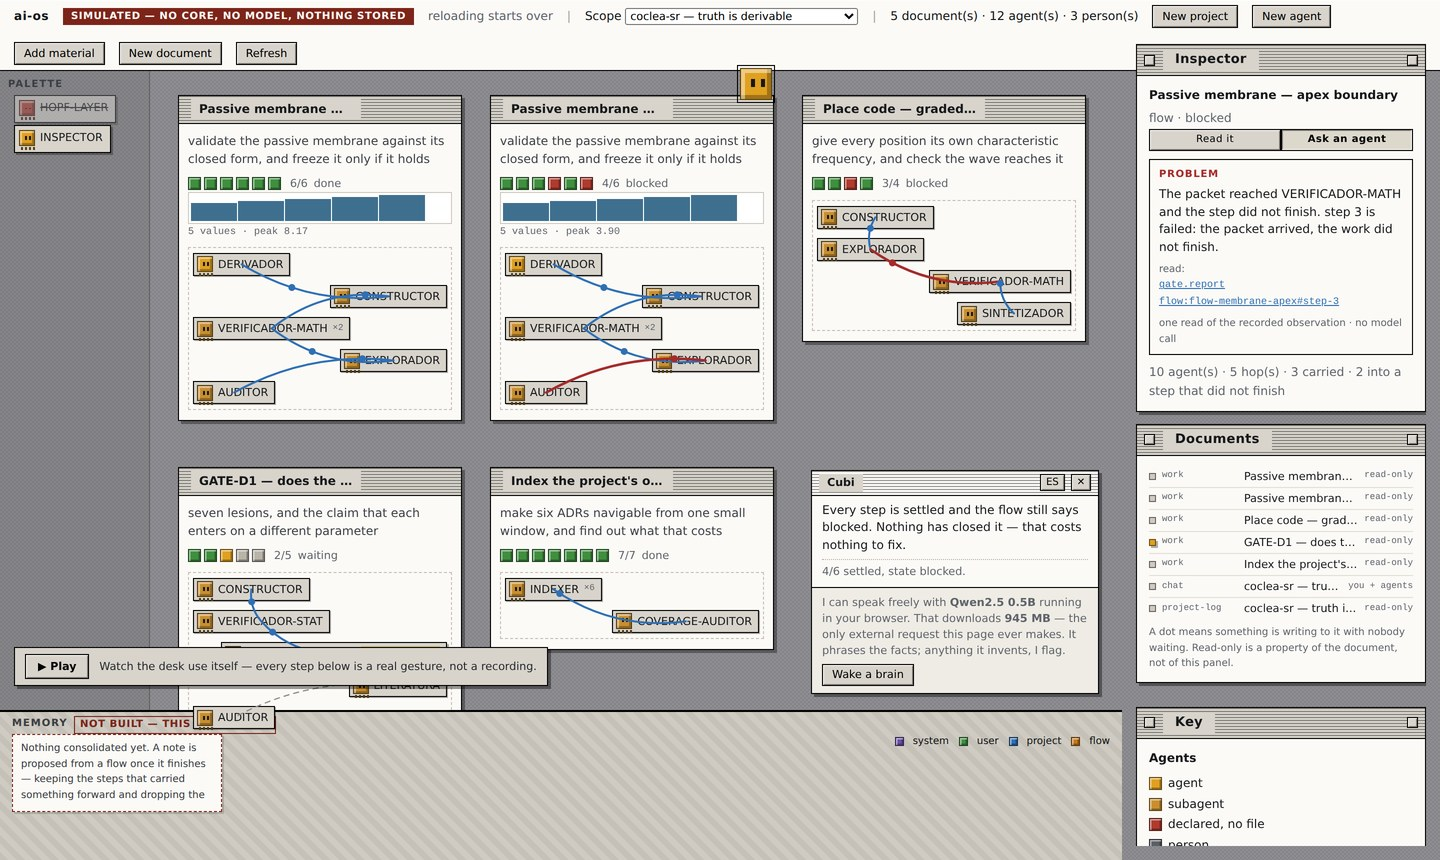
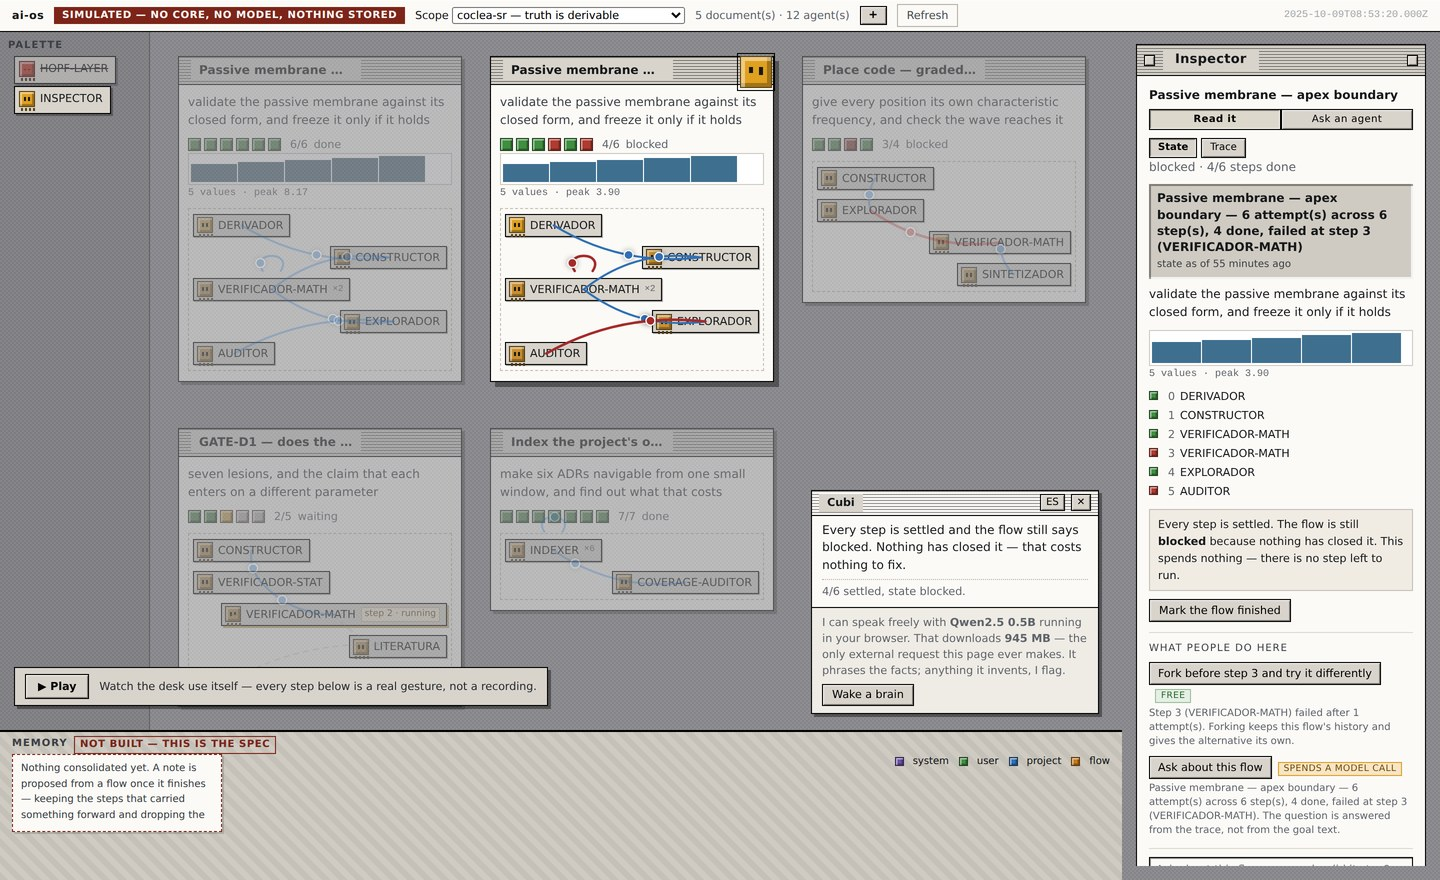
Take things away: one bar, one panel, and the packet is the only thing that moves
Asked how Jobs and Ive would improve this surface, and the honest answer is not
that it needs anything added. It had seven persistent chrome regions competing
with the work — a nine-control menubar, a Play bar, a mascot window, a memory
drawer, a Documents list, a Key, and a Selected panel — and the desk itself,
which is the entire point, held less than half the screen.

Four subtractions.

**The bar is one line.** New project, New agent, Add material and New document
sat at equal weight above the thing they act on, and none of them is what a
visitor came to do. They are behind one `+` now, still one click away and no
longer shouting. `harness` went with them.

**The Key is deleted.** A legend is a manual, and shipping a manual beside an
interface is the interface admitting it is not legible. Its content became what
the Inspector shows when nothing is selected: you read the vocabulary once, in
the place the answers will appear, and the first thing you click replaces it.
The panel is now permanent — it used to vanish, leaving a hole in the rail and
teaching nothing.

The key also learned the vocabulary it was missing. The five wire marks come
first, drawn with the same CSS as the wires, and that ordering is the argument:
what a box is coloured is ordinary, what a *line between two boxes* means is
what this surface exists to say — and the distinction it most needs a reader to
hold is that `unknown` and `open` are not weaker verdicts, they are the refusal
to give one.
[…]

diff --git a/ai-ui/src/desk.ts b/ai-ui/src/desk.ts
@@ -226,6 +226,47 @@ body{overflow:hidden}
 /* Walking between places: whole pixels, never a glide. */
 .acube.moving{transition:transform .45s steps(12)}
 
+/* ---- the chrome, quieted -------------------------------------------------
+   Overrides on top of the shared bar, not edits to it: vocabulary.ts styles
+   every surface in this repository and the desk does not get to decide how the
+   explorer looks.
+
+   The bar carried nine controls at equal weight above the thing they act on,
+   and none of them is what a visitor came to do. What is left is what changes
+   what you are looking at -- the scope -- and everything that *makes* something
+   is behind one plus sign. */
+.menubar{padding:4px 12px;gap:10px;font-size:11px}
+.menubar .sim{font-size:10px}
+.menubar #counts{color:var(--dim)}
+.menubar .right{font-size:10px;opacity:.55}
+.menubar button.quiet{border-color:#b8b3a8;box-shadow:none;background:transparent;color:#4a4e53}
+.menubar button.quiet:hover{background:var(--face)}
+.make{position:relative;display:inline-flex}
+.make>button{font-weight:700;padding:1px 8px;line-height:1.35}
+.makemenu{position:absolute;top:calc(100% + 5px);left:0;z-index:500;display:flex;flex-direction:column;
+  min-width:150px;background:var(--face);border:1px solid #000;box-shadow:3px 3px 0 rgba(0,0,0,.4);padding:3px}
+.makemenu[hidden]{display:none}
+.makemenu button{border:0;box-shadow:none;background:transparent;text-align:left;padding:4px 8px}
+.makemenu button:hover{background:#2f6fb5;color:#fff}
+
+/* ---- focus --------------------------------------------------------------
+   Selecting a flow should make it the thing you are looking at. Everything else
+   steps back rather than disappearing: a desk where the unselected work vanished
+   would be a desk that had answered a question nobody asked. */
+.deskbg.focused .docnode{opacity:.42;filter:saturate(.55)}
+.deskbg.focused .docnode.sel{opacity:1;filter:none;box-shadow:5px 5px 0 rgba(0,0,0,.4)}
+.deskbg.focused .wires g{opacity:.28}
+.deskbg.focused .wires g.inflow{opacity:1}
+@media (prefers-reduced-motion: no-preference){
+  .docnode{transition:opacity .18s linear,filter .18s linear}
+}
+
+/* The wire swatches in the key, drawn with the same rules as the wires. */
+.key .wkey{flex:1 1 100%}
+.key li.wk{align-items:center;gap:7px;padding:2px 0;line-height:1.35}
+.key li.wk svg{flex:0 0 auto}
+.key li.wk b{font-weight:700}
+
 /* ---- the wires -----------------------------------------------------------
    The flows of information, drawn.
 
@@ -252,7 +293,11 @@ body{overflow:hidden}
 .wires g.sel path.w{stroke-width:4}
 .wires g.sel path.w.unknown{stroke-width:2.5}
 /* The packet. A real thing on a real wire -- clicking it opens what moved. */
-.wires circle.pkt{r:3.5;pointer-events:none}
+/* The packet is the hero: the only thing on this surface that moves, and the
+   brightest mark on it. Everything else holds still so that motion means one
+   thing -- information travelling. */
+.wires circle.pkt{r:4.5;pointer-events:none;stroke:#fff;stroke-width:1.25;
+  filter:drop-shadow(0 0 3px rgba(0,0,0,.35))}
 .wires circle.pkt.carried{fill:#2f6fb5}
 .wires circle.pkt.ignored{fill:#b5651d}
 .wires circle.pkt.blocked{fill:#a52a2a}
@@ -750,6 +795,7 @@ const DESK_JS = "(() => {\n" + CREATURES_JS + BUS_JS + INSPECTOR_JS + String.raw
       }
 
       const g = document.createElementNS(NS, 'g');
+      g.dataset.flow = w.flowId;
       if (selected && selected.kind === 'wire' && selected.id === w.id) g.setAttribute('class', 'sel');
 
       const path = document.createElementNS(NS, 'path');
@@ -770,7 +816,7 @@ const DESK_JS = "(() => {\n" + CREATURES_JS + BUS_JS + INSPECTOR_JS + String.raw
       if (w.packet && !reduced) {
         const c = document.createElementNS(NS, 'circle');
         c.setAttribute('class', 'pkt ' + w.state);
-        c.setAttribute('r', '3.5');
+        c.setAttribute('r', '4.5');
         const m = document.createElementNS(NS, 'animateMotion');
         m.setAttribute('dur', (2.4 + (w.fromIndex % 3) * 0.35) + 's');
         m.setAttribute('repeatCount', 'indefinite');
@@ -793,6 +839,11 @@ const DESK_JS = "(() => {\n" + CREATURES_JS + BUS_JS + INSPECTOR_JS + String.raw
       frag.appendChild(g);
     }
     svg.replaceChildren(frag);
+    // The groups were just rebuilt, so whatever was in focus has to be marked
+    // again. Without this a poll silently un-focuses the flow somebody is
+    // reading -- the same class of bug as the panel that lost its answer every
+    // five seconds.
+    if (typeof focus === 'function') focus();
   }
 
   // ---- selection panel ----------------------------------------------------
@@ -805,9 +856,30 @@ const DESK_JS = "(() => {\n" + CREATURES_JS + BUS_JS + INSPECTOR_JS + String.raw
    * to the other. Whoever else wants to know now hears it from the surface that
    * decided it.
    */
+  /**
+   * Bring the selection forward and step everything else back.
+   *
+   * Not hiding: a desk where unselected work vanished would have answered a
+   * question nobody asked. The unselected documents dim and desaturate, their
+   * wires go quiet, and the one you picked keeps its full contrast -- which is
+   * the only way a six-agent chain crossing a surface with four other chains on
+   * it is followable at all.
+   */
+  const focus = () => {
+    const deck = document.querySelector('.deskbg');
+    const flowId = selected && (selected.kind === 'doc' ? selected.id
+      : selected.kind === 'wire' ? (wireById(selected.id) || {}).flowId : null);
+    deck.classList.toggle('focused', !!flowId);
+    for (const el of surface.querySelectorAll('.docnode'))
+      el.classList.toggle('sel', el.dataset.id === flowId);
+    for (const g of document.querySelectorAll('.wires g'))
+      g.classList.toggle('inflow', g.dataset.flow === flowId);
+  };
+
   const select = (kind, id) => {
     selected = { kind, id };
     renderPanel();
+    focus();
     window.dispatchEvent(new CustomEvent('desk:select', { detail: { kind: kind, id: id } }));
   };
 
@@ -1079,8 +1151,21 @@ const DESK_JS = "(() => {\n" + CREATURES_JS + BUS_JS + INSPECTOR_JS + String.raw
 
   const renderPanel = () => {
     const p = document.getElementById('panel');
-    if (!selected) { p.style.display = 'none'; return; }
-    p.style.display = 'block';
+    /**
+     * Nothing selected is not nothing to say.
+     *
+     * The panel used to disappear, which left a gap in the rail and taught a
+     * visitor nothing. It now holds the key — the same one that used to be a
+     * separate permanent window — so the vocabulary is read once, in the place
+     * the answers will appear, and is replaced by the first thing clicked.
+     */
+    if (!selected) {
+      p.querySelector('h2').textContent = 'Inspector';
+      p.querySelector('.win-body').innerHTML = (S.key || '') +
+        '<div class="note">Click any box, any line, or the dot travelling one. ' +
+        'Whatever you pick, this panel becomes about it.</div>';
+      return;
+    }
     p.classList.add('insp');
     /**
      * A wire, which is a thing you can select now.
@@ -1092,7 +1177,7 @@ const DESK_JS = "(() => {\n" + CREATURES_JS + BUS_JS + INSPECTOR_JS + String.raw
      */
     if (selected.kind === 'wire') {
       const w = wireById(selected.id);
-      if (!w) { selected = null; p.style.display = 'none'; return; }
+      if (!w) { selected = null; renderPanel(); return; }
       const i = inspectWire(w);
       p.querySelector('h2').textContent = 'Inspector';
       p.querySelector('.win-body').innerHTML =
@@ -1118,7 +1203,7 @@ const DESK_JS = "(() => {\n" + CREATURES_JS + BUS_JS + INSPECTOR_JS + String.raw
     }
     if (selected.kind === 'doc') {
       const doc = S.docs.find((d) => d.id === selected.id);
-      if (!doc) { selected = null; p.style.display = 'none'; return; }
+      if (!doc) { selected = null; renderPanel(); return; }
       const next = doc.steps.find((s) => s.state === 'pending' || s.state === 'running');
       if (tab === 'trace' && inspectMode === 'read') {
         p.querySelector('h2').textContent = 'Inspector';
@@ -1227,7 +1312,7 @@ const DESK_JS = "(() => {\n" + CREATURES_JS + BUS_JS + INSPECTOR_JS + String.raw
       }
     } else {
       const a = S.agents.find((x) => x.name === selected.id);
-      if (!a) { selected = null; p.style.display = 'none'; return; }
+      if (!a) { selected = null; renderPanel(); return; }
       // What this one is doing, and where -- read off the same steps the
       // creatures are drawn from. Before this, clicking an agent told you what
       // it was *for*, which is the description somebody wrote, and said nothing
@@ -1862,6 +1947,30 @@ const DESK_JS = "(() => {\n" + CREATURES_JS + BUS_JS + INSPECTOR_JS + String.raw
 
   function closeNew() { newForm.style.display = 'none'; newTitle.value = ''; newGoal.value = ''; }
 
+  /**
+   * The one control that makes things.
+   *
+   * Five buttons at equal weight on the bar above the desk, none of which is
+   * what a visitor came to do. Behind a plus they are still one click away and
+   * they have stopped competing with the work. Closes on the next click
+   * anywhere, on Escape, and on choosing something -- a menu that stays open
+   * after you use it is a menu you have to dismiss.
+   */
+  (() => {
+    const open = document.getElementById('mkopen');
+    const menu = document.getElementById('makemenu');
+    if (!open || !menu) return;
+    const shut = () => { menu.hidden = true; open.setAttribute('aria-expanded', 'false'); };
+    open.addEventListener('click', (ev) => {
+      ev.stopPropagation();
+      menu.hidden = !menu.hidden;
+      open.setAttribute('aria-expanded', menu.hidden ? 'false' : 'true');
+    });
+    menu.addEventListener('click', () => setTimeout(shut, 0));
+    window.addEventListener('click', shut);
+    window.addEventListener('keydown', (ev) => { if (ev.key === 'Escape') shut(); });
+  })();
+
   document.getElementById('newdoc').addEventListener('click', function () {
     var open = newForm.style.display !== 'none';
     if (open) { closeNew(); return; }
@@ -1988,10 +2097,30 @@ const DESK_JS = "(() => {\n" + CREATURES_JS + BUS_JS + INSPECTOR_JS + String.raw
 })();
 `;
 
+/**
+ * The vocabulary, in the panel that will answer with it.
+ *
+ * The five wire marks come first, and that ordering is the argument. What a box
+ * is coloured is ordinary; **what a line between two boxes means is the thing
+ * this surface exists to say**, and the distinction it most needs a reader to
+ * hold is that `unknown` and `open` are not weaker versions of a verdict. They
+ * are the refusal to give one, and they are marked so they cannot be mistaken
+ * for it at a glance, in a screenshot, or by somebody who does not see colour.
+ */
 function legend(): string {
   const sw = (color: string, label: string) =>
     `<li><span class="cube" style="--c:${color}"></span><span>${esc(label)}</span></li>`;
+  const wire = (cls: string, label: string, gloss: string) =>
+    `<li class="wk"><svg width="34" height="10" aria-hidden="true"><path class="w ${cls}" d="M1 5 H33"/></svg>` +
+    `<span><b>${esc(label)}</b> — ${esc(gloss)}</span></li>`;
   return `<div class="key">
+    <div class="wkey"><strong>Between two agents</strong><ul>
+      ${wire("carried", "carried", "something moved and the next step used it")}
+      ${wire("ignored", "carried nothing forward", "it arrived and nothing used it")}
+      ${wire("blocked", "did not pass", "it ran, measured, and came out against its threshold")}
+      ${wire("open", "no verdict yet", "it arrived and nothing has been decided")}
+      ${wire("unknown", "unrecorded", "nothing was recorded about this hop at all")}
+    </ul></div>
     <div><strong>Agents</strong><ul>${sw(AGENT_COLOR, "agent")}${sw(SUBAGENT_COLOR, "subagent")}${sw(MISSING_COLOR, "declared, no file")}${sw(PERSON_COLOR, "person")}</ul></div>
     <div><strong>Steps</strong><ul>${statesByColor()
       .map(([color, names]) => sw(color, names.join(" / ")))
@@ -2022,6 +2151,16 @@ export function renderDeskHtml(view: DeskView): string {
   ];
 
   const client = {
+    /**
+     * The vocabulary, carried in the state rather than as a second global.
+     *
+     * It could have been its own script tag, and that is how it was written
+     * first -- which broke three tests that parse the state tag by reading to
+     * the next closing tag, and would have broken a fourth that counts the tags.
+     * The page having exactly one place where its state lives is worth more than
+     * the tidiness of a separate constant.
+     */
+    key: legend(),
     scopeId: view.scopeId,
     channels,
     docs: view.docs,
@@ -2042,22 +2181,32 @@ export function renderDeskHtml(view: DeskView): string {
 <style>${CHROME_CSS}${CREATURE_CSS}${DESK_CSS}${NEWFORM_CSS}${view.simulate ? TOUR_CSS + MASCOT_CSS : ""}</style>
 <div class="menubar">
   <span class="apple">ai-os</span>
-  ${view.simulate ? `<span class="sim">Simulated — no core, no model, nothing stored</span><span class="dim">reloading starts over</span>` : ""}
-  <span class="sep">|</span>
+  ${view.simulate ? `<span class="sim">Simulated — no core, no model, nothing stored</span>` : ""}
   <label>Scope <select id="scope">${view.scopes
     .map(
       (s) =>
         `<option value="${esc(s.scopeId)}"${s.scopeId === view.scopeId ? " selected" : ""}>${esc(s.label)}</option>`,
     )
     .join("")}</select></label>
-  <span class="sep">|</span>
-  <span id="counts">${esc(view.docs.length)} document(s) · ${esc(view.agents.length)} agent(s) · ${esc(view.people.length)} person(s)</span>
-  <button id="newproj">New project</button>
-  <button id="newagent">New agent</button>
-  <button id="newfile">Add material</button>
-  <button id="newdoc">New document</button>
-  <button id="reload">Refresh</button>
-  <span class="right">harness ${esc(view.harness)} · <span id="stamp">${esc(new Date(view.at).toISOString())}</span></span>
+  <span id="counts">${esc(view.docs.length)} document(s) · ${esc(view.agents.length)} agent(s)</span>
+  <!--
+    Five buttons became one.
+
+    The bar carried New project, New agent, Add material, New document and
+    Refresh, all at equal weight, next to a scope selector and two badges — nine
+    controls on the line above the thing they act on, competing with it. None of
+    them is what a visitor came to do. Behind one `+` they are still one click
+    away and they have stopped shouting.
+  -->
+  <span class="make"><button id="mkopen" aria-haspopup="true" aria-expanded="false" title="Make something">+</button>
+    <span class="makemenu" id="makemenu" hidden>
+      <button id="newdoc">New document</button>
+      <button id="newagent">New agent</button>
+      <button id="newfile">Add material</button>
+      <button id="newproj">New project</button>
+    </span></span>
+  <button id="reload" class="quiet" title="Re-read the state">Refresh</button>
+  <span class="right" title="harness ${esc(view.harness)}"><span id="stamp">${esc(new Date(view.at).toISOString())}</span></span>
 </div>
 <div class="win newform" id="newagentform" style="display:none">
   <div class="bar"><span class="box"></span><h2>New agent</h2><span class="box zoom"></span></div>
@@ -2104,19 +2253,25 @@ export function renderDeskHtml(view: DeskView): string {
   <div class="drawer" id="drawer"></div>
 </div>
 <div class="rail">
-  <div class="win panel" id="panel" style="display:none">
-    <div class="bar"><span class="box"></span><h2>Selected</h2><span class="box zoom"></span></div>
-    <div class="win-body"></div>
+  <!--
+    One panel, always present.
+
+    There used to be two: a *Selected* panel that appeared when you clicked
+    something, and a permanent *Key* explaining what the marks meant. A legend is
+    a manual, and shipping a manual beside an interface is the interface saying
+    it did not manage to be legible. So the key became what this panel shows when
+    nothing is selected — you read it exactly once, in the place you are already
+    looking, and it is replaced by the thing itself the moment you click.
+  -->
+  <div class="win panel insp" id="panel">
+    <div class="bar"><span class="box"></span><h2>Inspector</h2><span class="box zoom"></span></div>
+    <div class="win-body">${legend()}</div>
   </div>
   <div class="win panel" id="live">
     <div class="bar"><span class="box"></span><h2>Documents</h2><span class="box zoom"></span></div>
     <div class="win-body"></div>
   </div>
   <div class="spacer"></div>
-  <div class="win panel" id="key">
-    <div class="bar"><span class="box"></span><h2>Key</h2><span class="box zoom"></span></div>
-    <div class="win-body">${legend()}</div>
-  </div>
 </div>
 <div class="toast" id="toast"></div>
 <script>window.__DESK__ = ${jsonForScript(client)};</script>
